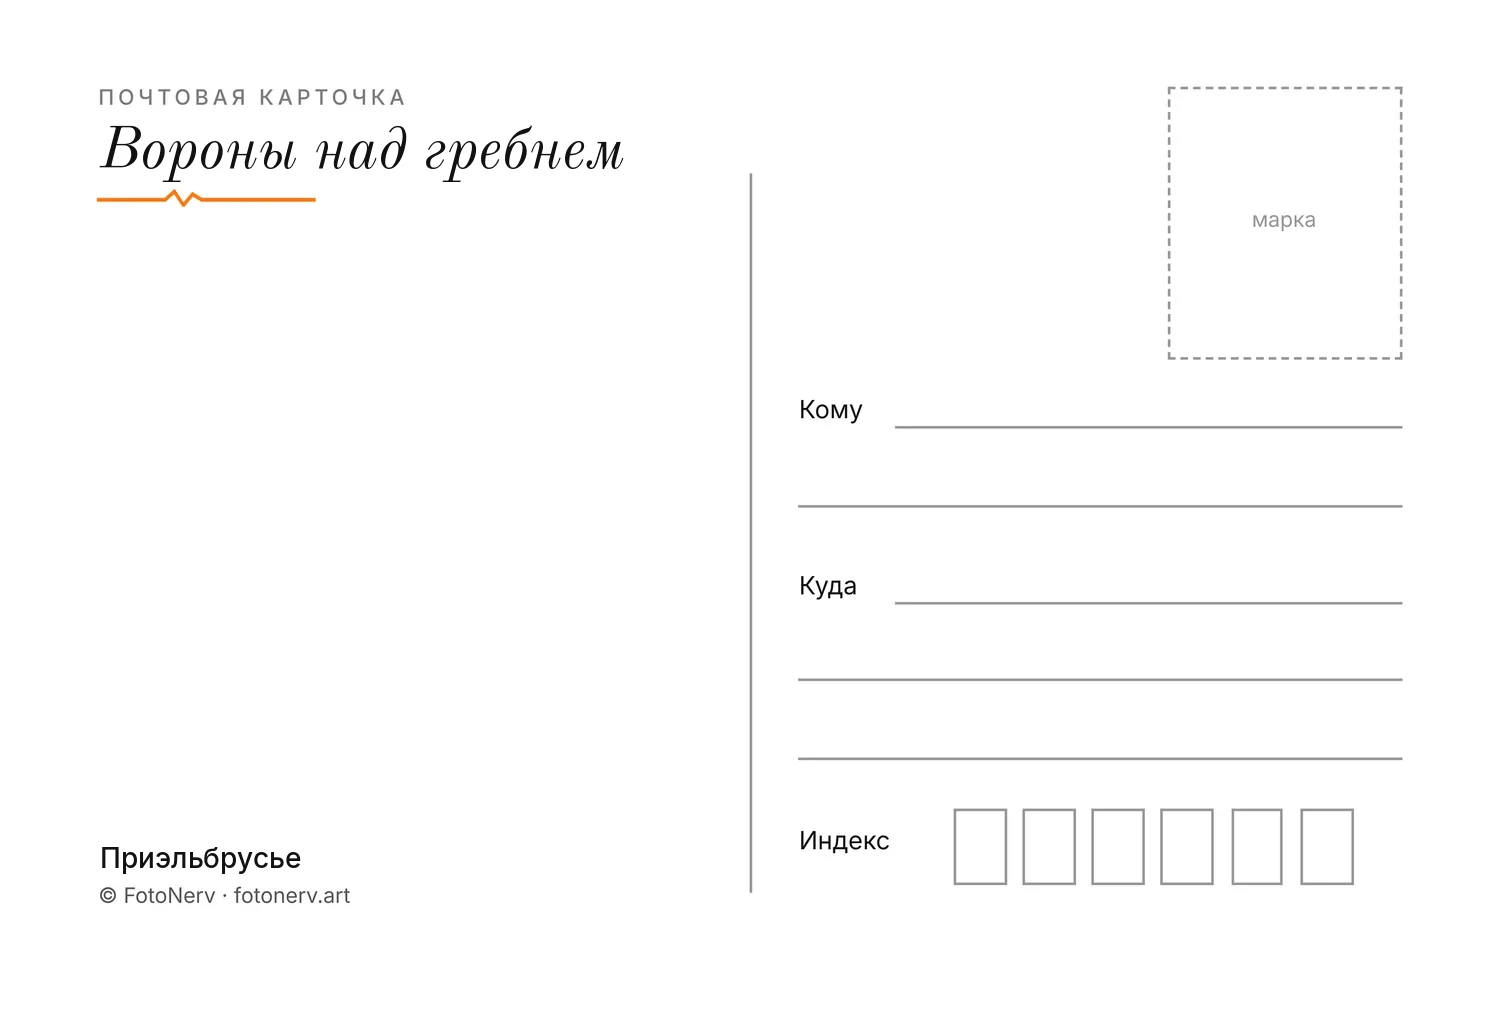
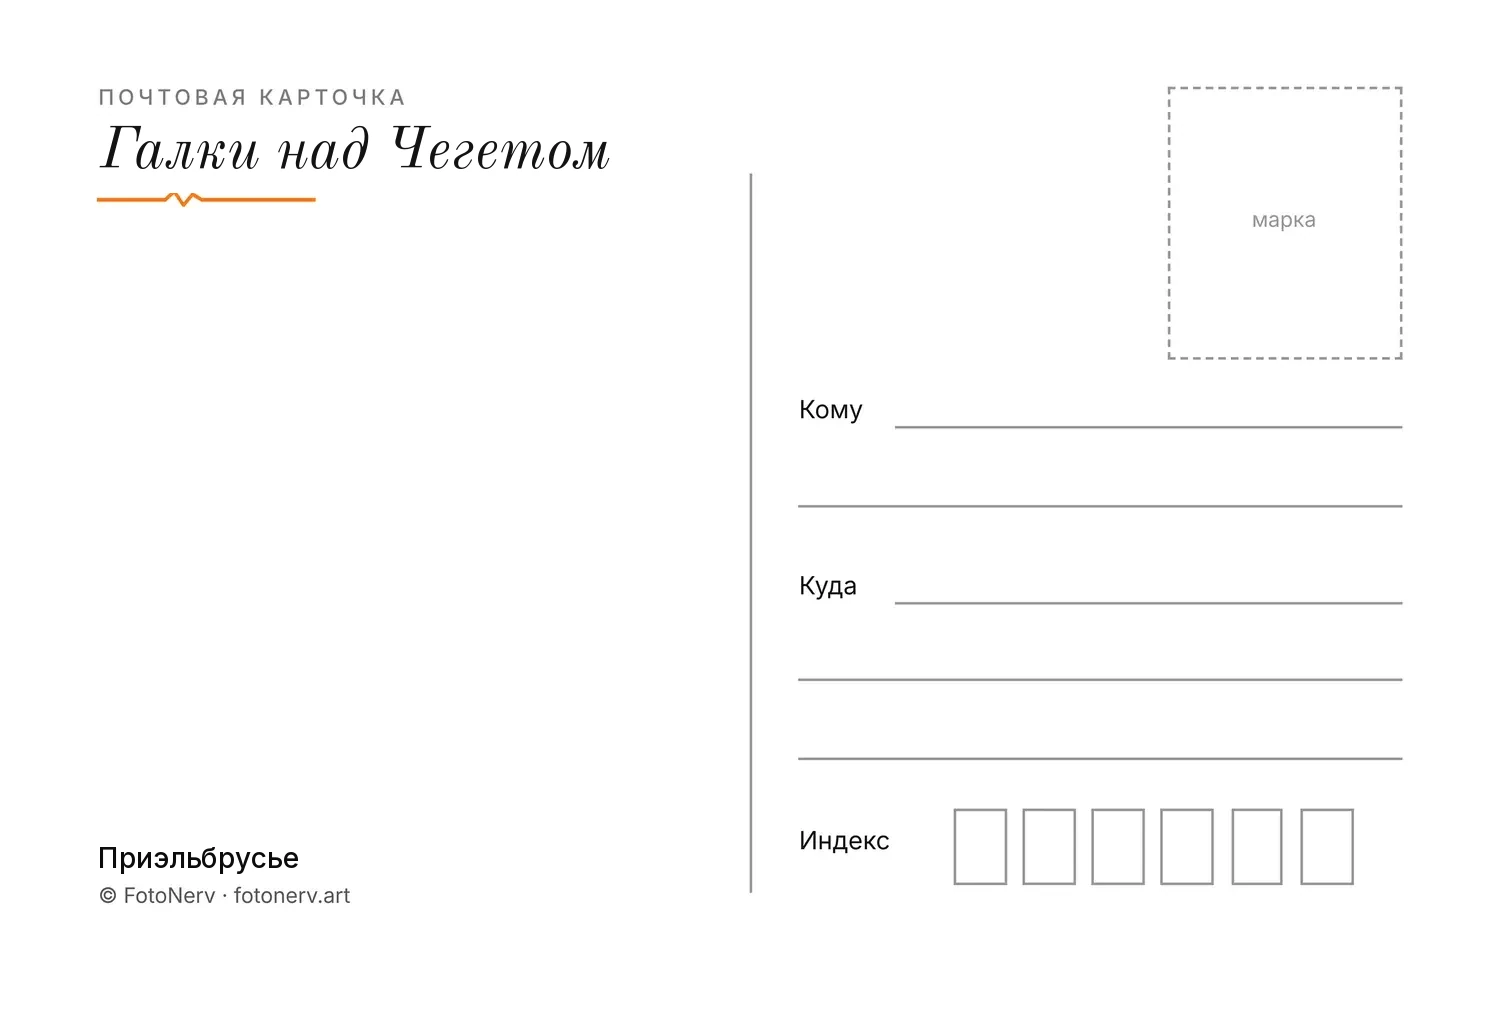
Открытки: убраны повторы и «Скалы над Чульманом», переименования, ровные подписи в окне набора
Claude-Session: https://claude.ai/code/session_01W8sp1A4HA26wJ3ApHHb6XP

Changed region(s): [[0.0613, 0.1224, 0.4293, 0.1836], [0.0613, 0.8263, 0.2147, 0.8569]]

diff --git a/assets/shop-data.js b/assets/shop-data.js
@@ -1410,9 +1410,9 @@ window.SHOP_DATA = /*JSON-START*/{
           "cards": [
             "yak-stones-reflection",
             "yak-reflection",
-            "yak-cliff-reflection",
             "yak-quiet-water",
-            "yak-evening-channel"
+            "yak-evening-channel",
+            "yak-cliffs-water"
           ],
           "price": 850,
           "cover": "yak-reflection"
@@ -1717,7 +1717,6 @@ window.SHOP_DATA = /*JSON-START*/{
             "yak-plane",
             "yak-asters",
             "yak-fireweed",
-            "yak-cliff-reflection",
             "yak-cliff-clouds",
             "yak-quiet-water",
             "yak-cliffs-water",
@@ -1854,7 +1853,7 @@ window.SHOP_DATA = /*JSON-START*/{
           "cards": [
             "aw-01",
             "aw-02",
-            "aw-03",
+            "aw-116",
             "aw-04",
             "aw-05",
             "aw-06",
@@ -1933,7 +1932,7 @@ window.SHOP_DATA = /*JSON-START*/{
           "lead": "оранжевый, синий и зелёный",
           "cards": [
             "aw-39",
-            "aw-40",
+            "yak-pasque",
             "aw-41",
             "yak-quiet-water",
             "yak-cliffs-water",
@@ -2062,7 +2061,7 @@ window.SHOP_DATA = /*JSON-START*/{
           "title": "Все открытки",
           "lead": "Полная коллекция",
           "cards": "all",
-          "price": 28000
+          "price": 27500
         }
       ],
       "pack": {
@@ -3207,7 +3206,7 @@ window.SHOP_DATA = /*JSON-START*/{
     },
     {
       "id": "kav-crows",
-      "title": "Вороны над гребнем",
+      "title": "Галки над Чегетом",
       "caption": "Приэльбрусье",
       "img": "img/shop/kav-crows.webp",
       "thumb": "img/shop/thumb/kav-crows.webp",
@@ -3637,24 +3636,6 @@ window.SHOP_DATA = /*JSON-START*/{
       "themes": [
         "autumn",
         "macro"
-      ],
-      "region": "yakutia"
-    },
-    {
-      "id": "yak-cliff-reflection",
-      "title": "Скалы над Чульманом",
-      "caption": "Якутия",
-      "img": "img/shop/yak-cliff-reflection.webp",
-      "thumb": "img/shop/thumb/yak-cliff-reflection.webp",
-      "w": 7000,
-      "h": 5061,
-      "tags": [
-        "mountains"
-      ],
-      "back": "img/shop/back/yak-cliff-reflection.webp",
-      "backL": "img/shop/back/yak-cliff-reflection-l.webp",
-      "themes": [
-        "water"
       ],
       "region": "yakutia"
     },
@@ -7040,30 +7021,6 @@ window.SHOP_DATA = /*JSON-START*/{
       }
     },
     {
-      "id": "aw-03",
-      "title": "Ручей в тумане",
-      "caption": "Якутия",
-      "img": "img/shop/aw-03.webp",
-      "thumb": "img/shop/thumb/aw-03.webp",
-      "w": 3076,
-      "h": 3500,
-      "tags": [
-        "bw"
-      ],
-      "back": "img/shop/back/aw-03.webp",
-      "backL": "img/shop/back/aw-03-l.webp",
-      "themes": [
-        "forest",
-        "water",
-        "bw"
-      ],
-      "region": "yakutia",
-      "aw": {
-        "c": "Лес",
-        "top": 9
-      }
-    },
-    {
       "id": "aw-04",
       "title": "Вдали",
       "caption": "Камчатка",
@@ -7256,7 +7213,7 @@ window.SHOP_DATA = /*JSON-START*/{
     {
       "id": "aw-13",
       "title": "Солнце над тундрой",
-      "caption": "Колмозеро, Кольский полуостров",
+      "caption": "Кольский полуостров",
       "img": "img/shop/aw-13.webp",
       "thumb": "img/shop/thumb/aw-13.webp",
       "w": 3500,
@@ -7701,7 +7658,7 @@ window.SHOP_DATA = /*JSON-START*/{
     {
       "id": "aw-34",
       "title": "Ручей на Колмозере",
-      "caption": "Колмозеро, Кольский полуостров",
+      "caption": "Кольский полуостров",
       "img": "img/shop/aw-34.webp",
       "thumb": "img/shop/thumb/aw-34.webp",
       "w": 3500,
@@ -7824,26 +7781,6 @@ window.SHOP_DATA = /*JSON-START*/{
       }
     },
     {
-      "id": "aw-40",
-      "title": "Прострелы",
-      "caption": "Чульман, Якутия",
-      "img": "img/shop/aw-40.webp",
-      "thumb": "img/shop/thumb/aw-40.webp",
-      "w": 2625,
-      "h": 3500,
-      "tags": [],
-      "back": "img/shop/back/aw-40.webp",
-      "backL": "img/shop/back/aw-40-l.webp",
-      "themes": [
-        "macro"
-      ],
-      "region": "yakutia",
-      "aw": {
-        "c": "Цветы",
-        "top": 15
-      }
-    },
-    {
       "id": "aw-41",
       "title": "Оранжевое солнце II",
       "caption": "Магаданская область",
@@ -7887,7 +7824,7 @@ window.SHOP_DATA = /*JSON-START*/{
     },
     {
       "id": "aw-43",
-      "title": "Безмятежность (Bliss) по-кавказски",
+      "title": "Безмятежность",
       "caption": "Тырныауз, Приэльбрусье",
       "img": "img/shop/aw-43.webp",
       "thumb": "img/shop/thumb/aw-43.webp",
@@ -8728,7 +8665,7 @@ window.SHOP_DATA = /*JSON-START*/{
     {
       "id": "aw-83",
       "title": "Путник на гряде",
-      "caption": "Колмозеро, Кольский полуостров",
+      "caption": "Кольский полуостров",
       "img": "img/shop/aw-83.webp",
       "thumb": "img/shop/thumb/aw-83.webp",
       "w": 6000,
@@ -8748,7 +8685,7 @@ window.SHOP_DATA = /*JSON-START*/{
     {
       "id": "aw-84",
       "title": "По снегу",
-      "caption": "Колмозеро, Кольский полуостров",
+      "caption": "Кольский полуостров",
       "img": "img/shop/aw-84.webp",
       "thumb": "img/shop/thumb/aw-84.webp",
       "w": 3500,
@@ -9069,7 +9006,7 @@ window.SHOP_DATA = /*JSON-START*/{
     {
       "id": "aw-102",
       "title": "Метель на Колмозере",
-      "caption": "Колмозеро, Кольский полуостров",
+      "caption": "Кольский полуостров",
       "img": "img/shop/aw-102.webp",
       "thumb": "img/shop/thumb/aw-102.webp",
       "w": 3500,

diff --git a/shop-cards.html b/shop-cards.html
@@ -15,7 +15,7 @@
 <meta property="og:url" content="https://fotonerv.art/shop-cards.html">
 <meta property="og:site_name" content="FotoNerv">
 <meta property="og:title" content="Открытки FotoNerv">
-<meta property="og:description" content="315 открыток: наборы по 5, по регионам и поштучно. Доставка по России.">
+<meta property="og:description" content="312 открыток: наборы по 5, по регионам и поштучно. Доставка по России.">
 <meta property="og:image" content="https://fotonerv.art/assets/og-cover-2.jpg">
 <meta name="twitter:card" content="summary_large_image">
 <style>
@@ -448,7 +448,7 @@
   }
 </style>
 <link rel="preload" as="image" href="assets/shop-room-light.webp" fetchpriority="high">
-<link rel="stylesheet" href="assets/shop.css?v=202611262300">
+<link rel="stylesheet" href="assets/shop.css?v=202611280100">
 <!-- Yandex.Metrika counter -->
 <script type="text/javascript">
     (function(m,e,t,r,i,k,a){
@@ -645,7 +645,7 @@
 
 <div class="toast" id="toast" role="status" aria-live="polite" hidden></div>
 
-<script src="assets/shop-data.js?v=202611272300"></script>
+<script src="assets/shop-data.js?v=202611280100"></script>
 <script src="assets/shop-core.js?v=202611201600"></script>
 <script src="assets/shop.js?v=202611271300"></script>
 </body>

diff --git a/assets/shop.css b/assets/shop.css
@@ -335,8 +335,8 @@ button.pcard-vis{border:0;padding:0;font:inherit;color:inherit;cursor:zoom-in;wi
 .sv-card img{display:block;width:100%;aspect-ratio:154/104;object-fit:cover;border:6px solid #f4efe6;border-radius:3px;box-shadow:0 10px 24px rgba(0,0,0,.45);background:#f4efe6}
 .sv-card.v img{aspect-ratio:104/154;width:68%;margin:0 auto}
 .sv-card figcaption{margin-top:9px;font-size:.88rem;line-height:1.35;text-align:center}
-.sv-card figcaption b{display:block;font-weight:500;color:var(--fog)}
-.sv-card figcaption span{color:var(--ash);font-size:.8rem}
+.sv-card figcaption b{display:block;font-weight:500;color:var(--fog);white-space:nowrap;overflow:hidden;text-overflow:ellipsis}
+.sv-card figcaption span{display:block;color:var(--ash);font-size:.8rem;white-space:nowrap;overflow:hidden;text-overflow:ellipsis}
 .sv-foot{position:sticky;bottom:-22px;display:flex;align-items:center;justify-content:flex-end;gap:18px;margin:22px -28px -22px;padding:16px 28px;background:var(--carbon);border-top:1px solid var(--line)}
 .sv-price{font-size:1.4rem}
 body.noscroll{overflow:hidden}

diff --git a/shop-wall.html b/shop-wall.html
@@ -448,7 +448,7 @@
   }
 </style>
 <link rel="preload" as="image" href="assets/shop-room-light.webp" fetchpriority="high">
-<link rel="stylesheet" href="assets/shop.css?v=202611262300">
+<link rel="stylesheet" href="assets/shop.css?v=202611280100">
 <!-- Yandex.Metrika counter -->
 <script type="text/javascript">
     (function(m,e,t,r,i,k,a){
@@ -695,7 +695,7 @@
 
 <div class="toast" id="toast" role="status" aria-live="polite" hidden></div>
 
-<script src="assets/shop-data.js?v=202611272300"></script>
+<script src="assets/shop-data.js?v=202611280100"></script>
 <script src="assets/shop-core.js?v=202611201600"></script>
 <script src="assets/shop.js?v=202611271300"></script>
 </body>

diff --git a/shop.html b/shop.html
@@ -448,7 +448,7 @@
   }
 </style>
 <link rel="preload" as="image" href="assets/shop-room-light.webp" fetchpriority="high">
-<link rel="stylesheet" href="assets/shop.css?v=202611262300">
+<link rel="stylesheet" href="assets/shop.css?v=202611280100">
 <!-- Yandex.Metrika counter -->
 <script type="text/javascript">
     (function(m,e,t,r,i,k,a){
@@ -695,7 +695,7 @@
 
 <div class="toast" id="toast" role="status" aria-live="polite" hidden></div>
 
-<script src="assets/shop-data.js?v=202611272300"></script>
+<script src="assets/shop-data.js?v=202611280100"></script>
 <script src="assets/shop-core.js?v=202611201600"></script>
 <script src="assets/shop.js?v=202611271300"></script>
 </body>
